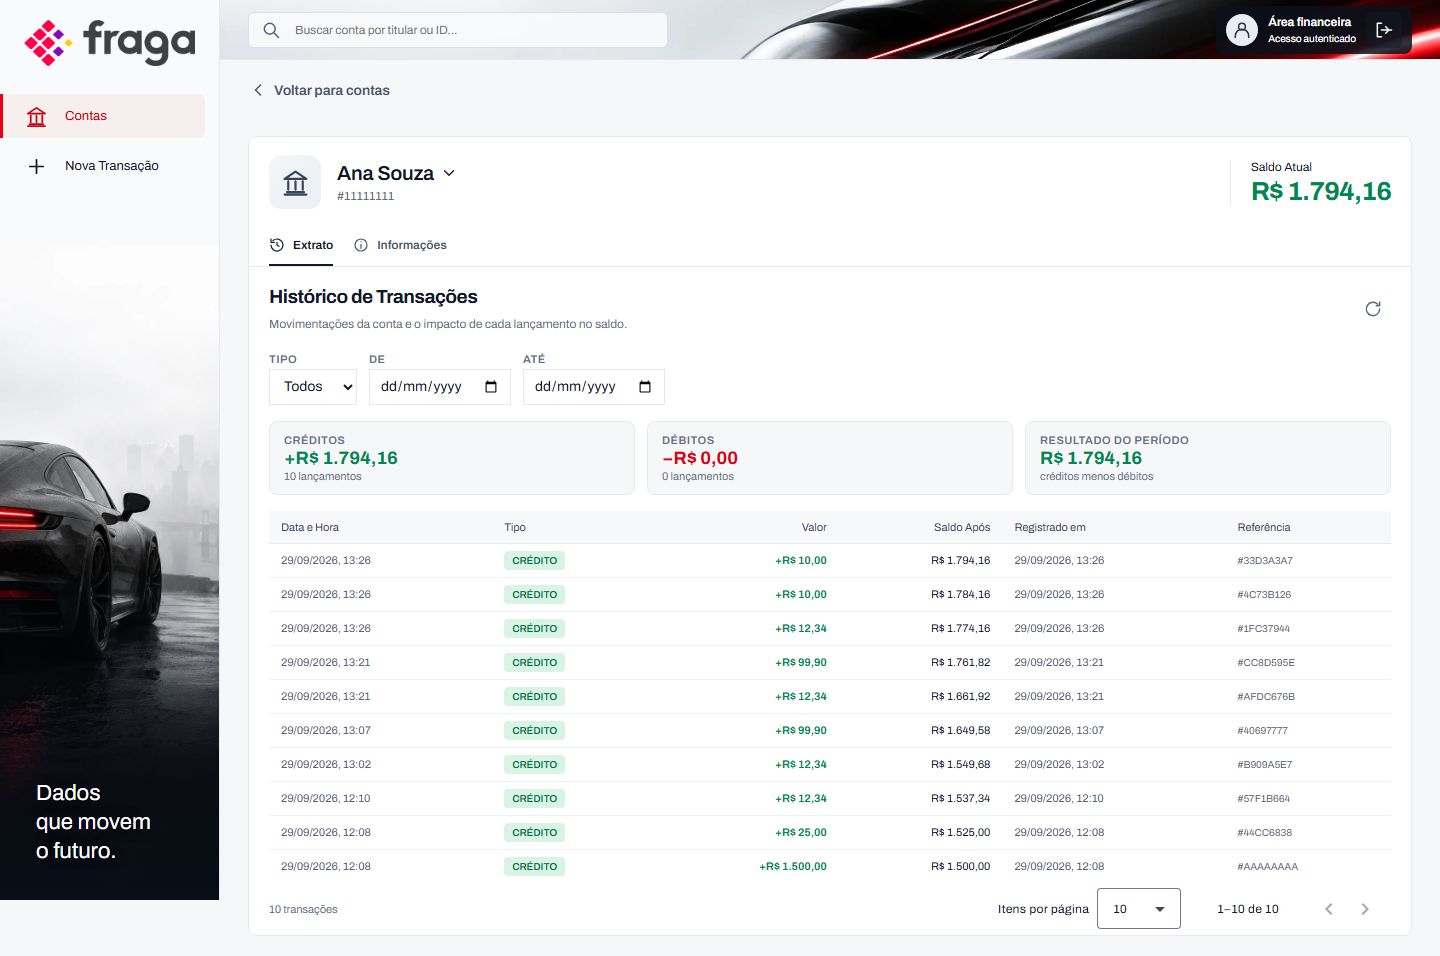
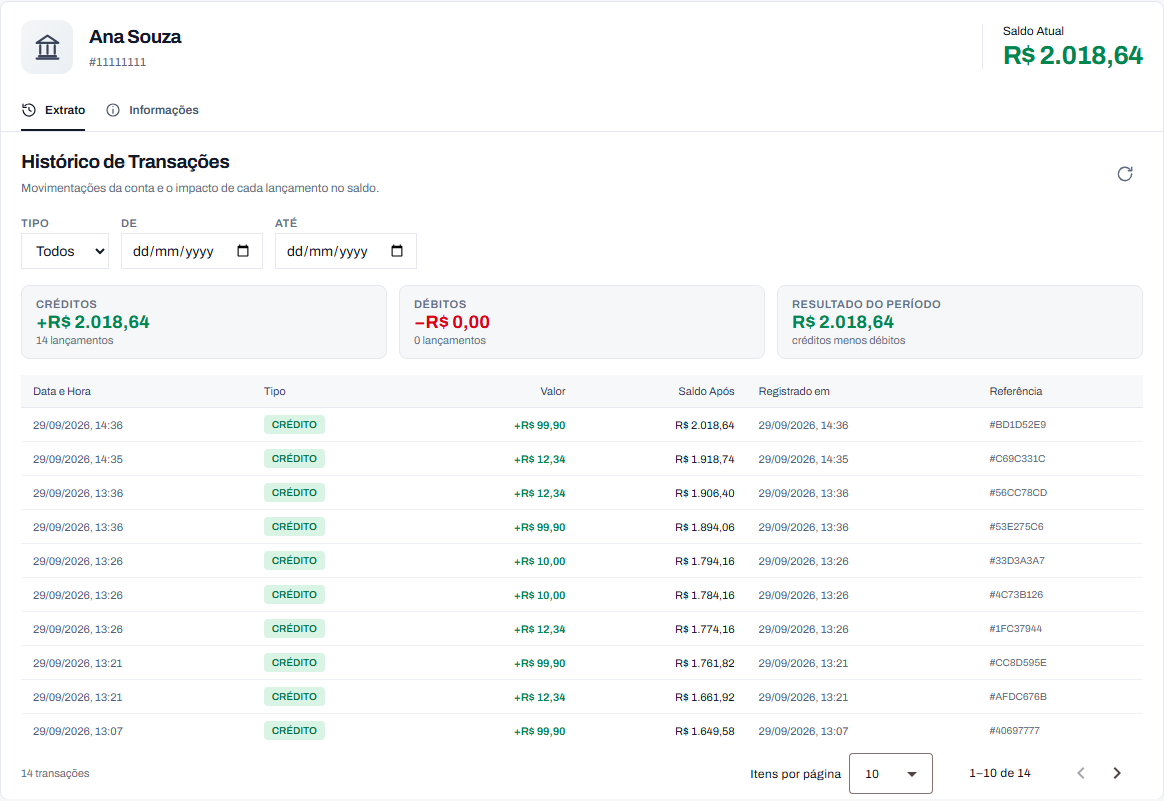
fix(contas): clicar na linha da conta troca o extrato abaixo
- A conta selecionada passa a viver no workspace: clicar em qualquer lugar da linha
  (ou no "Ver extrato") troca o extrato logo abaixo e destaca a linha escolhida.
- O seletor de conta no cabeçalho do extrato sai; a rota /accounts/:id/statement
  continua valendo como link direto (é para onde o aviso de sucesso aponta).
- O resumo do período é limpo durante o carregamento, para não exibir números da
  conta anterior por um instante.
- Prints regenerados: o extrato agora é capturado como parte da tela de contas.

Não inclui o tema de login do Keycloak (infra/keycloak/themes), que está em andamento.

diff --git a/frontend/src/app/features/statement/statement-page.html b/frontend/src/app/features/statement/statement-page.html
@@ -9,33 +9,9 @@
     <header class="statement-head">
       <span class="summary__icon"><app-icon name="bank" /></span>
       <div class="statement-head__identity">
-        <button
-          type="button"
-          class="account-switch"
-          [matMenuTriggerFor]="accountMenu"
-          aria-label="Trocar de conta"
-        >
-          <span class="account-switch__name">{{ account()?.holderName ?? 'Selecione a conta' }}</span>
-          <app-icon name="chevron-down" />
-        </button>
+        <h2>{{ account()?.holderName ?? 'Extrato da conta' }}</h2>
         <span class="identifier" [title]="accountId()">{{ accountId() | shortId }}</span>
       </div>
-
-      <mat-menu #accountMenu="matMenu">
-        @for (candidate of accounts(); track candidate.id) {
-          <button
-            type="button"
-            mat-menu-item
-            [class.is-current]="candidate.id === accountId()"
-            (click)="selectAccount(candidate.id)"
-          >
-            <span class="account-option">
-              <span>{{ candidate.holderName }}</span>
-              <small class="identifier">{{ candidate.id | shortId }}</small>
-            </span>
-          </button>
-        }
-      </mat-menu>
 
       @if (account(); as current) {
         <div class="statement-head__balance">
@@ -120,27 +96,29 @@
           }
         </div>
 
-        <div class="statement-summary">
-          <div class="statement-summary__item">
-            <span class="statement-summary__label">Créditos</span>
-            <strong class="amount--credit">+{{ (summary()?.creditTotal ?? 0) | brl }}</strong>
-            <small>{{ summary()?.creditCount ?? 0 }} lançamentos</small>
+        @if (summary(); as totals) {
+          <div class="statement-summary">
+            <div class="statement-summary__item">
+              <span class="statement-summary__label">Créditos</span>
+              <strong class="amount--credit">+{{ totals.creditTotal | brl }}</strong>
+              <small>{{ totals.creditCount }} lançamentos</small>
+            </div>
+            <div class="statement-summary__item">
+              <span class="statement-summary__label">Débitos</span>
+              <strong class="amount--debit">−{{ totals.debitTotal | brl }}</strong>
+              <small>{{ totals.debitCount }} lançamentos</small>
+            </div>
+            <div class="statement-summary__item">
+              <span class="statement-summary__label">Resultado do período</span>
+              <strong
+                [class.amount--credit]="periodResult() >= 0"
+                [class.amount--debit]="periodResult() < 0"
+                >{{ periodResult() | brl }}</strong
+              >
+              <small>créditos menos débitos</small>
+            </div>
           </div>
-          <div class="statement-summary__item">
-            <span class="statement-summary__label">Débitos</span>
-            <strong class="amount--debit">−{{ (summary()?.debitTotal ?? 0) | brl }}</strong>
-            <small>{{ summary()?.debitCount ?? 0 }} lançamentos</small>
-          </div>
-          <div class="statement-summary__item">
-            <span class="statement-summary__label">Resultado do período</span>
-            <strong
-              [class.amount--credit]="periodResult() >= 0"
-              [class.amount--debit]="periodResult() < 0"
-              >{{ periodResult() | brl }}</strong
-            >
-            <small>créditos menos débitos</small>
-          </div>
-        </div>
+        }
 
         @switch (status()) {
           @case ('loading') {

diff --git a/frontend/e2e/statement.e2e.ts b/frontend/e2e/statement.e2e.ts
@@ -1,14 +1,23 @@
 import { expect, test } from '@playwright/test';
-import { login, seededAccountId } from './session';
+import { login } from './session';
 
-test('abre o extrato em tela própria e filtra por tipo', async ({ page }) => {
+test('seleciona a conta na lista e mostra o extrato abaixo', async ({ page }) => {
   await login(page);
 
-  await page.getByRole('link', { name: /Ver extrato/ }).first().click();
+  await expect(page.locator('.statement-head h2')).toHaveText('Ana Souza');
 
-  await expect(page).toHaveURL(/\/accounts\/.+\/statement/);
-  await expect(page.getByRole('link', { name: /Voltar para contas/ })).toBeVisible();
-  await expect(page.locator('.statement-table tbody tr').first()).toBeVisible();
+  await page.locator('.accounts-table tbody tr').nth(1).click();
+
+  await expect(page.locator('.statement-head h2')).toHaveText('Bruno Lima');
+  await expect(page.locator('.statement-head .identifier')).toHaveText('#22222222');
+  await expect(page.locator('.statement-head__balance strong')).toContainText('R$');
+});
+
+test('filtra o extrato por tipo e mostra o resumo do período', async ({ page }) => {
+  await login(page);
+
+  await expect(page.locator('.statement-summary').first()).toContainText('Créditos');
+  await expect(page.locator('.statement-summary').first()).toContainText('Resultado do período');
 
   await page.locator('.statement-filters select').selectOption('DEBIT');
   await expect(page.getByText('Nenhum lançamento encontrado')).toBeVisible();
@@ -20,12 +29,11 @@ test('abre o extrato em tela própria e filtra por tipo', async ({ page }) => {
 test('mostra a aba de informações com dados reais da conta', async ({ page }) => {
   await login(page);
 
-  await page.getByRole('link', { name: /Ver extrato/ }).first().click();
   await page.getByRole('tab', { name: 'Informações' }).click();
 
   const info = page.locator('.info-grid');
   await expect(info.getByText('Titular')).toBeVisible();
-  await expect(info.getByText('Referência')).toBeVisible();
+  await expect(info.getByText('Ana Souza')).toBeVisible();
   await expect(info.getByText('#11111111')).toBeVisible();
   await expect(info.getByText('Criada em')).toBeVisible();
 });

diff --git a/frontend/src/app/features/accounts/accounts-page.html b/frontend/src/app/features/accounts/accounts-page.html
@@ -79,7 +79,10 @@
             </thead>
             <tbody>
               @for (account of filteredAccounts(); track account.id) {
-                <tr [class.is-selected]="selectedAccountId() === account.id">
+                <tr
+                  [class.is-selected]="selectedAccountId() === account.id"
+                  (click)="accountSelected.emit(account.id)"
+                >
                   <td>
                     <strong>{{ account.holderName }}</strong
                     ><span class="table__secondary">Conta financeira</span>
@@ -87,16 +90,22 @@
                   <td class="identifier" [title]="account.id">{{ account.id | shortId }}</td>
                   <td class="table__number amount amount--credit">{{ account.balance | brl }}</td>
                   <td class="table__action">
-                    <a
-                      class="button-outline"
-                      [routerLink]="
-                        hasTransactionPanel()
-                          ? ['/transactions/new']
-                          : ['/accounts', account.id, 'statement']
-                      "
-                      [queryParams]="hasTransactionPanel() ? { accountId: account.id } : {}"
-                      >Ver extrato<app-icon name="chevron-right"
-                    /></a>
+                    @if (hasTransactionPanel()) {
+                      <a
+                        class="button-outline"
+                        routerLink="/transactions/new"
+                        [queryParams]="{ accountId: account.id }"
+                        >Ver extrato<app-icon name="chevron-right"
+                      /></a>
+                    } @else {
+                      <button
+                        type="button"
+                        class="button-outline"
+                        (click)="accountSelected.emit(account.id)"
+                      >
+                        Ver extrato<app-icon name="chevron-right" />
+                      </button>
+                    }
                   </td>
                 </tr>
               } @empty {

diff --git a/frontend/src/app/features/accounts/financial-workspace.ts b/frontend/src/app/features/accounts/financial-workspace.ts
@@ -1,4 +1,4 @@
-import { Component, computed, inject, input } from '@angular/core';
+import { Component, effect, inject, input, signal } from '@angular/core';
 import { ActivatedRoute } from '@angular/router';
 import { Store } from '@ngrx/store';
 import { AccountsPage } from './accounts-page';
@@ -16,6 +16,7 @@ import { NewTransactionPage } from '../transactions/new-transaction-page';
           [searchText]="q()"
           [selectedAccountId]="selectedAccountId()"
           [hasTransactionPanel]="hasTransactionPanel"
+          (accountSelected)="selectedAccountId.set($event)"
         />
         @if (selectedAccountId(); as selected) {
           <app-statement-page [accountId]="selected" />
@@ -33,8 +34,25 @@ export class FinancialWorkspace {
   private readonly store = inject(Store);
   private readonly route = inject(ActivatedRoute);
   private readonly accounts = this.store.selectSignal(selectAccounts);
+
   readonly accountId = input('');
   readonly q = input('');
   readonly hasTransactionPanel = this.route.snapshot.routeConfig?.path === 'transactions/new';
-  readonly selectedAccountId = computed(() => this.accountId() || this.accounts()[0]?.id || '');
+  readonly selectedAccountId = signal('');
+
+  constructor() {
+    effect(() => {
+      const accounts = this.accounts();
+      const current = this.selectedAccountId();
+
+      if (accounts.length === 0 || accounts.some((account) => account.id === current)) {
+        return;
+      }
+
+      const requested = this.accountId();
+      const initial = accounts.some((account) => account.id === requested) ? requested : accounts[0].id;
+
+      this.selectedAccountId.set(initial);
+    });
+  }
 }

diff --git a/frontend/src/app/features/statement/statement-page.ts b/frontend/src/app/features/statement/statement-page.ts
@@ -1,7 +1,6 @@
 import { Component, OnInit, computed, effect, inject, input, signal } from '@angular/core';
-import { Router, RouterLink } from '@angular/router';
+import { RouterLink } from '@angular/router';
 import { MatButton } from '@angular/material/button';
-import { MatMenu, MatMenuItem, MatMenuTrigger } from '@angular/material/menu';
 import { MatPaginator, PageEvent } from '@angular/material/paginator';
 import { Store } from '@ngrx/store';
 import { StatementFilters } from '../../core/models/statement-filters';
@@ -33,9 +32,6 @@ type TypeFilter = TransactionType | 'ALL';
   imports: [
     RouterLink,
     MatButton,
-    MatMenu,
-    MatMenuItem,
-    MatMenuTrigger,
     MatPaginator,
     CurrencyBrlPipe,
     DateBrPipe,
@@ -47,7 +43,6 @@ type TypeFilter = TransactionType | 'ALL';
 })
 export class StatementPage implements OnInit {
   private readonly store = inject(Store);
-  private readonly router = inject(Router);
 
   readonly accountId = input.required<string>();
   readonly standalone = input(false);
@@ -89,10 +84,6 @@ export class StatementPage implements OnInit {
 
   ngOnInit(): void {
     this.store.dispatch(AccountsActions.loadAccounts());
-  }
-
-  selectAccount(accountId: string): void {
-    void this.router.navigate(['/accounts', accountId, 'statement']);
   }
 
   onPage(event: PageEvent): void {

diff --git a/frontend/src/styles.scss b/frontend/src/styles.scss
@@ -219,7 +219,11 @@ h2 {
   background: #fafbfc;
 }
 .table tbody tr.is-selected {
-  background: #fcfdfe;
+  background: #fff6f6;
+  box-shadow: inset 3px 0 0 var(--fraga-red);
+}
+.accounts-table tbody tr {
+  cursor: pointer;
 }
 .table strong {
   display: block;
@@ -350,39 +354,6 @@ button:disabled {
   display: block;
   margin-top: 5px;
   font-size: 12px;
-}
-.account-switch {
-  display: inline-flex;
-  align-items: center;
-  gap: 6px;
-  padding: 0;
-  font: inherit;
-  color: inherit;
-  background: transparent;
-  border: 0;
-  border-radius: 6px;
-  cursor: pointer;
-}
-.account-switch:hover {
-  color: var(--fraga-red);
-}
-.account-switch__name {
-  font-size: 20px;
-  font-weight: 600;
-  letter-spacing: -0.01em;
-}
-.account-switch app-icon {
-  width: 18px;
-  height: 18px;
-}
-.account-option {
-  display: flex;
-  flex-direction: column;
-  gap: 2px;
-}
-.account-option small {
-  color: var(--fraga-muted);
-  font-size: 11px;
 }
 .statement-summary {
   display: grid;

diff --git a/frontend/src/app/features/accounts/accounts-page.ts b/frontend/src/app/features/accounts/accounts-page.ts
@@ -1,4 +1,4 @@
-import { Component, OnInit, computed, inject, input } from '@angular/core';
+import { Component, OnInit, computed, inject, input, output } from '@angular/core';
 import { RouterLink } from '@angular/router';
 import { MatButton } from '@angular/material/button';
 import { Store } from '@ngrx/store';
@@ -30,6 +30,7 @@ export class AccountsPage implements OnInit {
   readonly searchText = input('');
   readonly selectedAccountId = input('');
   readonly hasTransactionPanel = input(false);
+  readonly accountSelected = output<string>();
   readonly filteredAccounts = computed(() => {
     const query = (this.searchText() ?? '').trim().toLocaleLowerCase('pt-BR');
     return this.accounts().filter((account) =>

diff --git a/frontend/src/app/features/accounts/accounts-page.spec.ts b/frontend/src/app/features/accounts/accounts-page.spec.ts
@@ -61,6 +61,16 @@ describe('AccountsPage', () => {
     ).toBeGreaterThan(0);
   });
 
+  it('emits the selected account when a row is clicked', () => {
+    const fixture = setup('loaded');
+    const selected: string[] = [];
+    fixture.componentInstance.accountSelected.subscribe((accountId) => selected.push(accountId));
+
+    (fixture.nativeElement as HTMLElement).querySelector<HTMLElement>('.accounts-table tbody tr')?.click();
+
+    expect(selected).toEqual(['a1']);
+  });
+
   it('FiltrarContas_BuscaPorTitularOuId_PreservaSaldoConsolidado', () => {
     const fixture = setup('loaded');
     fixture.componentRef.setInput('searchText', 'ANA');

diff --git a/frontend/src/app/features/statement/state/statement.reducer.ts b/frontend/src/app/features/statement/state/statement.reducer.ts
@@ -38,6 +38,7 @@ export const statementReducer = createReducer(
     page,
     pageSize,
     filters: filters ?? emptyStatementFilters,
+    summary: null,
     status: 'loading' as LoadStatus,
     error: null,
   })),

diff --git a/README.md b/README.md
@@ -16,7 +16,7 @@ banco) e cada uma tem teste.
 
 ## Telas
 
-| Contas (lista, resumo e extrato) | Extrato da conta (tela própria, com filtros) |
+| Contas (lista, resumo e extrato abaixo) | Extrato da conta (filtros, totais e saldo por lançamento) |
 |---|---|
 | ![Contas](docs/prints/01-contas.png) | ![Extrato](docs/prints/02-extrato.png) |
 
@@ -62,9 +62,9 @@ Para encerrar: `docker compose down`. Para apagar os dados de demonstração: `d
 
 - **Lista de contas** com saldo consolidado e um resumo (total em contas, contas cadastradas e total de
   lançamentos).
-- **Extrato da conta** em tela própria, paginado, com **filtros por tipo e período**, o **total de
-  créditos e débitos do período** e uma coluna que mostra o **saldo após cada lançamento**. No próprio
-  cabeçalho dá para **trocar de conta** sem voltar para a lista.
+- **Extrato da conta** logo abaixo da lista: **clicar em qualquer lugar da linha** de uma conta troca o
+  extrato exibido. É paginado, com **filtros por tipo e período**, o **total de créditos e débitos do
+  período** e colunas com o **saldo após cada lançamento** e a **data de gravação**.
 - **Lançamento de crédito ou débito** com validação de campos e feedback claro de **processamento,
   sucesso, duplicidade e saldo insuficiente** (painel na tela e aviso no canto).
 - **Estados de interface**: carregamento (esqueleto), erro com "tentar de novo", lista vazia e sessão
